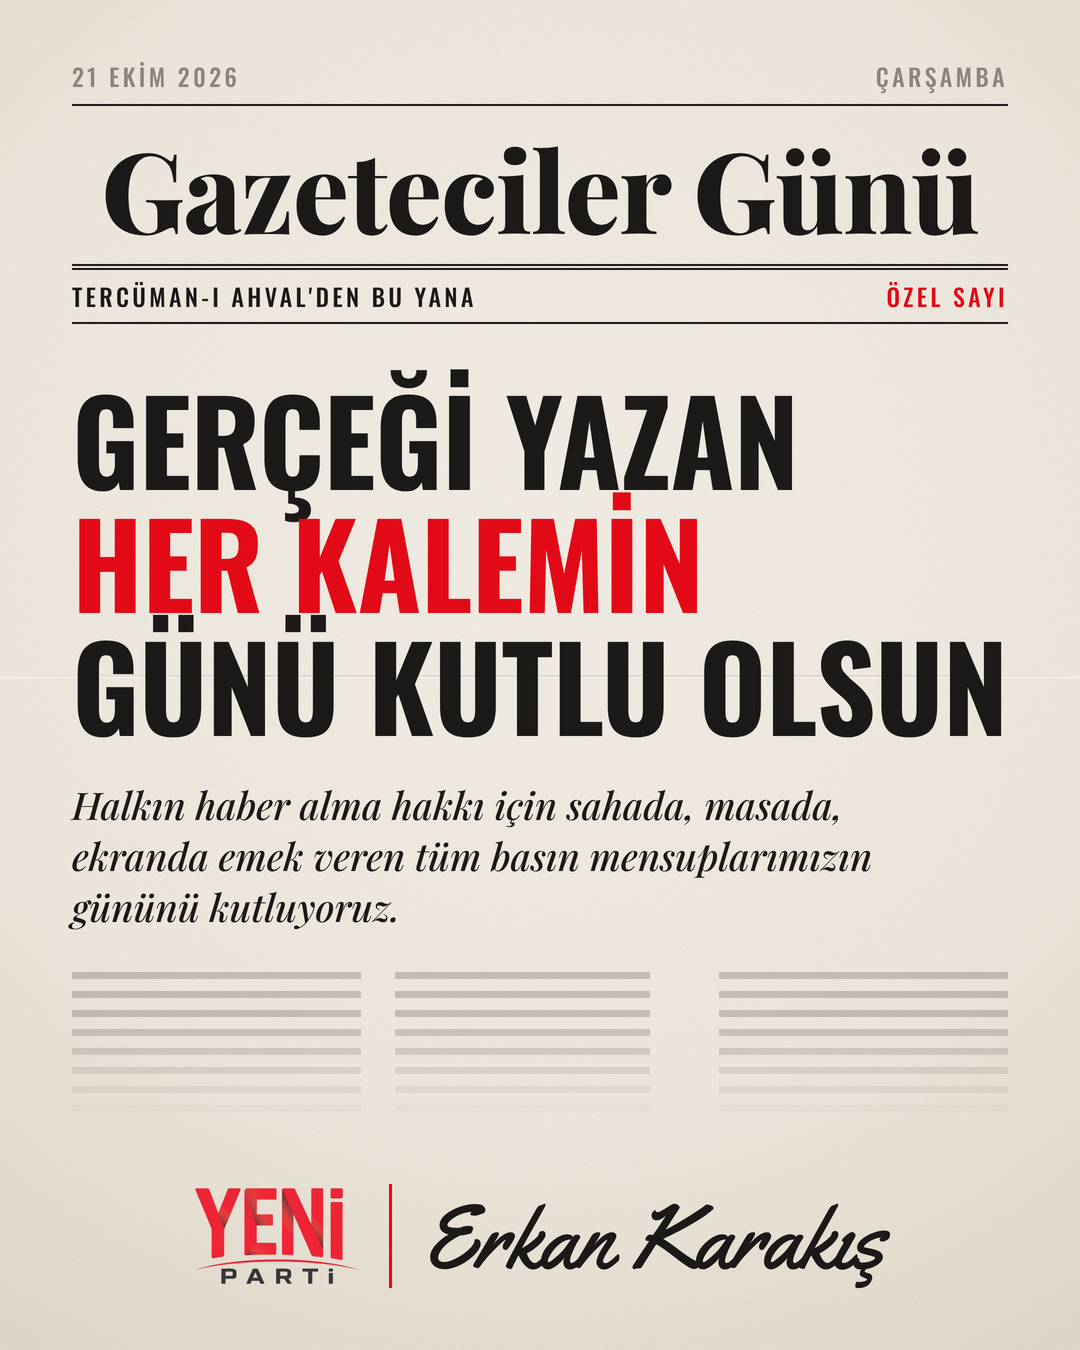
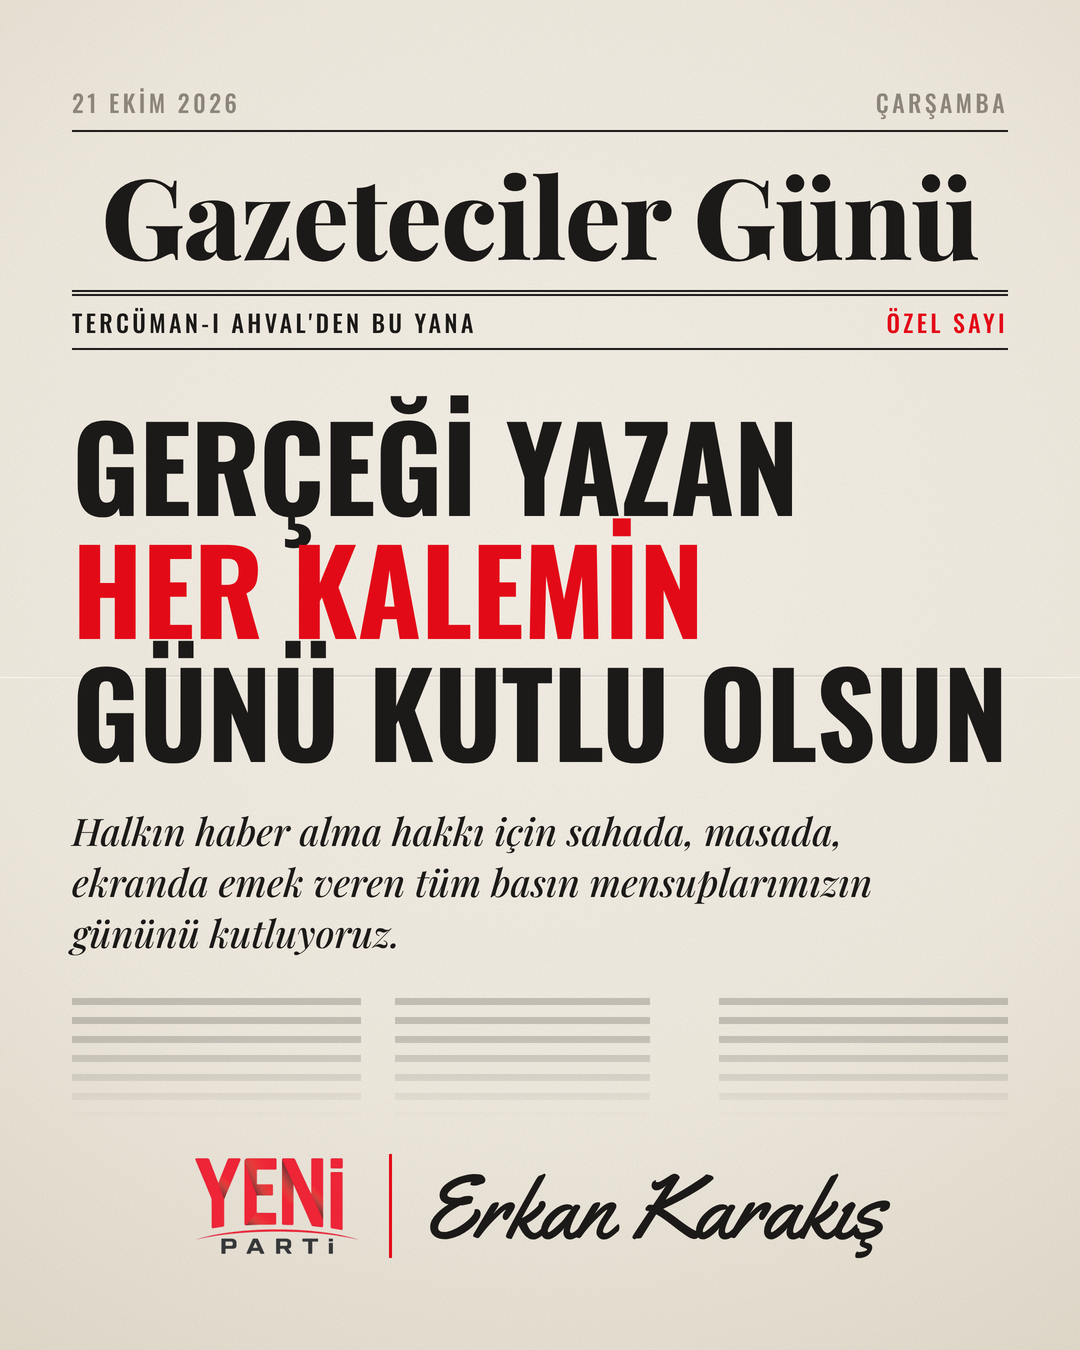
Gazeteciler Günü: üst ve imza altı boşlukları artırıldı
Claude-Session: https://claude.ai/code/session_01SatttGbgBLoCnk9KGLypWv

diff --git a/tasarim/erkan-karakis/gazeteciler-gunu/gazeteciler-yatay.html b/tasarim/erkan-karakis/gazeteciler-gunu/gazeteciler-yatay.html
@@ -10,19 +10,19 @@ html,body{margin:0;width:1350px;height:1080px;overflow:hidden}
 body{position:relative;background:radial-gradient(ellipse 90% 70% at 50% 40%,#F6F2EA 0%,var(--kagit) 60%,#E4DDCF 100%);color:var(--murekkep)}
 .doku{position:absolute;inset:0;opacity:.5;mix-blend-mode:multiply}
 .kat{position:absolute;left:0;right:0;top:540px;height:2px;background:linear-gradient(90deg,transparent,rgba(0,0,0,.07) 20%,rgba(0,0,0,.07) 80%,transparent);box-shadow:0 1px 0 rgba(255,255,255,.6)}
-.sayfa{position:absolute;left:80px;right:80px;top:52px}
+.sayfa{position:absolute;left:80px;right:80px;top:76px}
 .ust{display:flex;justify-content:space-between;font:24px/1 O5;letter-spacing:.14em;color:var(--gri);padding-bottom:16px;border-bottom:2px solid var(--murekkep)}
 .manset{text-align:center;font:112px/1 PF;letter-spacing:-.01em;padding:18px 0 14px;white-space:nowrap}
 .alt-ust{display:flex;justify-content:space-between;font:24px/1 O5;letter-spacing:.14em;padding:14px 0;border-top:6px double var(--murekkep);border-bottom:2px solid var(--murekkep)}
 .alt-ust b{font-weight:normal;color:var(--kirmizi)}
-.baslik{margin-top:22px;font:134px/1.1 O7;white-space:nowrap;letter-spacing:-.005em;text-transform:uppercase}
+.baslik{margin-top:22px;font:114px/1.1 O7;white-space:nowrap;letter-spacing:-.005em;text-transform:uppercase}
 .baslik em{font-style:normal;color:var(--kirmizi)}
 .spot{margin-top:22px;font:34px/1.34 PI;max-width:1190px}
 .sutunlar{margin-top:40px;display:grid;grid-template-columns:repeat(3,1fr);gap:34px;height:0;overflow:hidden;display:none;
   -webkit-mask:linear-gradient(to bottom,#000 30%,transparent)}
 .sutun{background:repeating-linear-gradient(180deg,rgba(28,26,24,.20) 0 7px,transparent 7px 19px)}
 .sutun:nth-child(2){background:repeating-linear-gradient(180deg,rgba(28,26,24,.20) 0 7px,transparent 7px 19px) 0 0/88% 100% no-repeat}
-.imza{position:absolute;left:0;right:0;bottom:48px;display:flex;justify-content:center;align-items:center;gap:30px}
+.imza{position:absolute;left:0;right:0;bottom:76px;display:flex;justify-content:center;align-items:center;gap:30px}
 .imza img{height:84px}.imza .ayrac{width:3px;height:92px;background:var(--kirmizi)}
 .imza .ad{font:80px/1 Imza;color:var(--murekkep);white-space:nowrap;transform:translateY(2px)}
 </style>
@@ -39,4 +39,4 @@ body{position:relative;background:radial-gradient(ellipse 90% 70% at 50% 40%,#F6
 </div>
 <div class="imza"><img src="yp-logo-renkli.png"><span class="ayrac"></span><span class="ad">Erkan Karakış</span></div>
 </body></html>
-<script>document.fonts.ready.then(()=>{const b=document.querySelector('.baslik');const r=b.scrollWidth;if(r>1190){b.style.fontSize=(134*1190/r)+'px'}})</script>
+<script>document.fonts.ready.then(()=>{const b=document.querySelector('.baslik');const r=b.scrollWidth;if(r>1190){b.style.fontSize=(114*1190/r)+'px'}})</script>

diff --git a/tasarim/erkan-karakis/gazeteciler-gunu/gazeteciler.html b/tasarim/erkan-karakis/gazeteciler-gunu/gazeteciler.html
@@ -10,7 +10,7 @@ html,body{margin:0;width:1080px;height:1350px;overflow:hidden}
 body{position:relative;background:radial-gradient(ellipse 90% 70% at 50% 40%,#F6F2EA 0%,var(--kagit) 60%,#E4DDCF 100%);color:var(--murekkep)}
 .doku{position:absolute;inset:0;opacity:.5;mix-blend-mode:multiply}
 .kat{position:absolute;left:0;right:0;top:675px;height:2px;background:linear-gradient(90deg,transparent,rgba(0,0,0,.07) 20%,rgba(0,0,0,.07) 80%,transparent);box-shadow:0 1px 0 rgba(255,255,255,.6)}
-.sayfa{position:absolute;left:72px;right:72px;top:64px}
+.sayfa{position:absolute;left:72px;right:72px;top:90px}
 .ust{display:flex;justify-content:space-between;font:24px/1 O5;letter-spacing:.14em;color:var(--gri);padding-bottom:16px;border-bottom:2px solid var(--murekkep)}
 .manset{text-align:center;font:112px/1 PF;letter-spacing:-.01em;padding:26px 0 20px;white-space:nowrap}
 .alt-ust{display:flex;justify-content:space-between;font:24px/1 O5;letter-spacing:.14em;padding:14px 0;border-top:6px double var(--murekkep);border-bottom:2px solid var(--murekkep)}
@@ -18,11 +18,11 @@ body{position:relative;background:radial-gradient(ellipse 90% 70% at 50% 40%,#F6
 .baslik{margin-top:52px;font:118px/1.06 O7;white-space:nowrap;letter-spacing:-.005em;text-transform:uppercase}
 .baslik em{font-style:normal;color:var(--kirmizi)}
 .spot{margin-top:34px;font:38px/1.34 PI;max-width:900px}
-.sutunlar{margin-top:40px;display:grid;grid-template-columns:repeat(3,1fr);gap:34px;height:150px;overflow:hidden;
+.sutunlar{margin-top:40px;display:grid;grid-template-columns:repeat(3,1fr);gap:34px;height:120px;overflow:hidden;
   -webkit-mask:linear-gradient(to bottom,#000 30%,transparent)}
 .sutun{background:repeating-linear-gradient(180deg,rgba(28,26,24,.20) 0 7px,transparent 7px 19px)}
 .sutun:nth-child(2){background:repeating-linear-gradient(180deg,rgba(28,26,24,.20) 0 7px,transparent 7px 19px) 0 0/88% 100% no-repeat}
-.imza{position:absolute;left:0;right:0;bottom:62px;display:flex;justify-content:center;align-items:center;gap:30px}
+.imza{position:absolute;left:0;right:0;bottom:92px;display:flex;justify-content:center;align-items:center;gap:30px}
 .imza img{height:96px}.imza .ayrac{width:3px;height:104px;background:var(--kirmizi)}
 .imza .ad{font:90px/1 Imza;color:var(--murekkep);white-space:nowrap;transform:translateY(2px)}
 </style>
